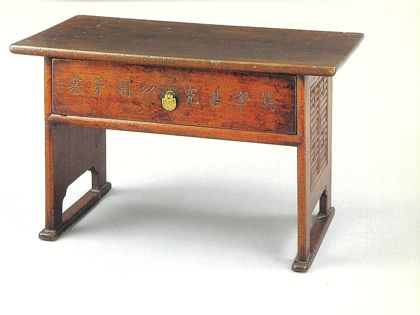
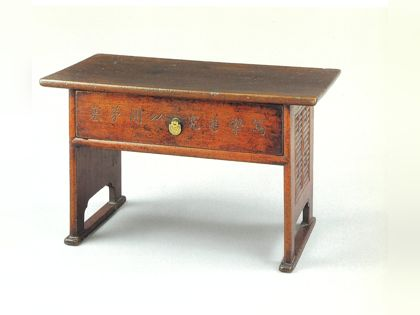
호암 도록 고화질 사진으로 갱신, 건수 검색 색인 정리
Claude-Session: https://claude.ai/code/session_01Lgfdd8YmfUHUM1mmv9spNH

diff --git a/hoam.html b/hoam.html
@@ -73,7 +73,7 @@ dialog::backdrop{background:rgba(20,18,15,.55)}
 <link rel="apple-touch-icon" href="icons/apple-touch-icon.png">
 <meta name="mobile-web-app-capable" content="yes"><meta name="apple-mobile-web-app-capable" content="yes">
 <meta name="apple-mobile-web-app-title" content="조선의 목가구">
-<script src="photozoom.js?v=20261113"></script>
+<script src="photozoom.js?v=20261113b"></script>
 <script src="common.js?v=18" defer></script>
 </head>
 <body>
@@ -101,9 +101,9 @@ dialog::backdrop{background:rgba(20,18,15,.55)}
   <div class="d-foot"><button id="d-prev">← 이전</button><span id="d-pos" style="font-size:13px;color:var(--muted)"></span><span><button id="d-next">다음 →</button> <button id="d-close">닫기</button></span></div>
 </dialog>
 <script type="application/json" id="ds-items">[{"portal": "서안", "id": "H01", "name": "서안", "hanja": "書案", "kind": "서안·경상", "type": "", "size_raw": "64×29.6×26.5", "era": "19세기", "owner": "개인 · 조선목가구대전(호암미술관 2002)", "page": ""}, {"portal": "서안", "id": "H02", "name": "서안", "hanja": "書案", "kind": "서안·경상", "type": "", "size_raw": "65×26.8×29", "era": "19세기", "owner": "호암미술관 · 조선목가구대전(호암미술관 2002)", "page": ""}, {"portal": "서안", "id": "H03", "name": "서안", "hanja": "書案", "kind": "서안·경상", "type": "", "size_raw": "64×29.6×28", "era": "19세기", "owner": "호암미술관 · 조선목가구대전(호암미술관 2002)", "page": ""}, {"portal": "서안", "id": "H04", "name": "서안", "hanja": "書案", "kind": "서안·경상", "type": "", "size_raw": "48×26×27.5", "era": "19세기", "owner": "호암미술관 · 조선목가구대전(호암미술관 2002)", "page": ""}, {"portal": "서안", "id": "H05", "name": "서안", "hanja": "書案", "kind": "서안·경상", "type": "", "size_raw": "57.5×27.8×25.7", "era": "19세기", "owner": "호암미술관 · 조선목가구대전(호암미술관 2002)", "page": ""}, {"portal": "서안", "id": "H06", "name": "서안", "hanja": "書案", "kind": "서안·경상", "type": "", "size_raw": "65.6×28.6×28.6", "era": "19세기", "owner": "이희숙 · 조선목가구대전(호암미술관 2002)", "page": ""}, {"portal": "서안", "id": "H07", "name": "서안", "hanja": "書案", "kind": "서안·경상", "type": "", "size_raw": "62×26×27", "era": "19세기", "owner": "호암미술관 · 조선목가구대전(호암미술관 2002)", "page": ""}, {"portal": "서안", "id": "H08", "name": "서안", "hanja": "書案", "kind": "서안·경상", "type": "", "size_raw": "73.5×33×29", "era": "19세기", "owner": "호암미술관 · 조선목가구대전(호암미술관 2002)", "page": ""}, {"portal": "서안", "id": "H09", "name": "서안", "hanja": "書案", "kind": "서안·경상", "type": "", "size_raw": "59×32.7×31.2", "era": "19세기", "owner": "개인 · 조선목가구대전(호암미술관 2002)", "page": ""}, {"portal": "서안", "id": "H10", "name": "경상", "hanja": "經床", "kind": "서안·경상", "type": "", "size_raw": "76.3×32×34.7", "era": "19세기", "owner": "국립중앙박물관 · 조선목가구대전(호암미술관 2002)", "page": ""}, {"portal": "서안", "id": "H11", "name": "경상", "hanja": "經床", "kind": "서안·경상", "type": "", "size_raw": "65.3×30×31", "era": "19세기", "owner": "호암미술관 · 조선목가구대전(호암미술관 2002)", "page": ""}, {"portal": "서안", "id": "H12", "name": "경상", "hanja": "經床", "kind": "서안·경상", "type": "", "size_raw": "62×27×34.5", "era": "18세기", "owner": "호암미술관 · 조선목가구대전(호암미술관 2002)", "page": ""}, {"portal": "", "id": "H13", "name": "연상", "hanja": "硯床", "kind": "연상", "type": "", "size_raw": "35.8×22.8×29", "era": "19세기", "owner": "호암미술관 · 조선목가구대전(호암미술관 2002)", "page": ""}, {"portal": "", "id": "H14", "name": "연상", "hanja": "硯床", "kind": "연상", "type": "", "size_raw": "33.3×20.2×26.5", "era": "19세기", "owner": "국립중앙박물관 · 조선목가구대전(호암미술관 2002)", "page": ""}, {"portal": "", "id": "H15", "name": "연상", "hanja": "硯床", "kind": "연상", "type": "", "size_raw": "33×22×18.5", "era": "19세기", "owner": "서울대학교박물관 · 조선목가구대전(호암미술관 2002)", "page": ""}, {"portal": "", "id": "H16", "name": "연상", "hanja": "硯床", "kind": "연상", "type": "", "size_raw": "19×32×20.5", "era": "19세기", "owner": "서울대학교박물관 · 조선목가구대전(호암미술관 2002)", "page": ""}, {"portal": "", "id": "H17", "name": "죽장연상", "hanja": "竹張硯床", "kind": "연상", "type": "", "size_raw": "45.8×28.3×29.3", "era": "19세기", "owner": "호암미술관 · 조선목가구대전(호암미술관 2002)", "page": ""}, {"portal": "", "id": "H18", "name": "죽장연상", "hanja": "竹張硯床", "kind": "연상", "type": "", "size_raw": "19.3×32.6×25.9", "era": "19세기", "owner": "정민자 · 조선목가구대전(호암미술관 2002)", "page": ""}, {"portal": "", "id": "H19", "name": "연상", "hanja": "硯床", "kind": "연상", "type": "", "size_raw": "40.4×29.8×26", "era": "19세기", "owner": "국립중앙박물관 · 조선목가구대전(호암미술관 2002)", "page": ""}, {"portal": "", "id": "H20", "name": "문갑", "hanja": "文匣", "kind": "문갑", "type": "", "size_raw": "108×21.2×28.4", "era": "19세기", "owner": "국립중앙박물관(김종학 기증품) · 조선목가구대전(호암미술관 2002)", "page": ""}, {"portal": "", "id": "H21", "name": "문갑", "hanja": "文匣", "kind": "문갑", "type": "", "size_raw": "165×34.6×38.5", "era": "19세기", "owner": "호암미술관 · 조선목가구대전(호암미술관 2002)", "page": ""}, {"portal": "", "id": "H22", "name": "문갑", "hanja": "文匣", "kind": "문갑", "type": "", "size_raw": "83×20×53.5", "era": "19세기", "owner": "국립중앙박물관(김종학 기증품) · 조선목가구대전(호암미술관 2002)", "page": ""}, {"portal": "", "id": "H23", "name": "문갑", "hanja": "文匣", "kind": "문갑", "type": "", "size_raw": "58.6×24.5×30.4", "era": "19세기", "owner": "박옥경 · 조선목가구대전(호암미술관 2002)", "page": ""}, {"portal": "", "id": "H24", "name": "문갑", "hanja": "文匣", "kind": "문갑", "type": "", "size_raw": "53×10.5×19.3", "era": "19세기", "owner": "서울대학교박물관 · 조선목가구대전(호암미술관 2002)", "page": ""}, {"portal": "", "id": "H25", "name": "문갑", "hanja": "文匣", "kind": "문갑", "type": "", "size_raw": "46.5×21.5×30", "era": "19세기", "owner": "개인 · 조선목가구대전(호암미술관 2002)", "page": ""}, {"portal": "사방탁자", "id": "H26", "name": "사층사방탁자", "hanja": "四層四方卓子", "kind": "탁자·책장", "type": "", "size_raw": "41.5×34×162.3", "era": "19세기", "owner": "국립중앙박물관 · 조선목가구대전(호암미술관 2002)", "page": ""}, {"portal": "사방탁자", "id": "H27", "name": "사층사방탁자", "hanja": "四層四方卓子", "kind": "탁자·책장", "type": "", "size_raw": "47×33.8×168.5", "era": "19세기", "owner": "서울대학교박물관 · 조선목가구대전(호암미술관 2002)", "page": ""}, {"portal": "사방탁자", "id": "H28", "name": "삼층탁자", "hanja": "三層卓子", "kind": "탁자·책장", "type": "", "size_raw": "36.4×34×132.8", "era": "19세기", "owner": "국립중앙박물관 · 조선목가구대전(호암미술관 2002)", "page": ""}, {"portal": "사방탁자", "id": "H29", "name": "사층탁자", "hanja": "四層卓子", "kind": "탁자·책장", "type": "", "size_raw": "38.2×38.2×158.6", "era": "19세기", "owner": "개인 · 조선목가구대전(호암미술관 2002)", "page": ""}, {"portal": "사방탁자", "id": "H30", "name": "사층탁자", "hanja": "四層卓子", "kind": "탁자·책장", "type": "", "size_raw": "54.8×18×117.5", "era": "19세기", "owner": "이화여자대학교박물관 · 조선목가구대전(호암미술관 2002)", "page": ""}]</script>
-<script type="application/json" id="ds-photos">[{"id": "H01", "img": "thumbs/hoam/1.jpg?v=20261113"}, {"id": "H02", "img": "thumbs/hoam/2.jpg?v=20261113"}, {"id": "H03", "img": "thumbs/hoam/3.jpg?v=20261113"}, {"id": "H04", "img": "thumbs/hoam/4.jpg?v=20261113"}, {"id": "H05", "img": "thumbs/hoam/5.jpg?v=20261113"}, {"id": "H06", "img": "thumbs/hoam/6.jpg?v=20261113"}, {"id": "H07", "img": "thumbs/hoam/7.jpg?v=20261113"}, {"id": "H08", "img": "thumbs/hoam/8.jpg?v=20261113"}, {"id": "H09", "img": "thumbs/hoam/9.jpg?v=20261113"}, {"id": "H10", "img": "thumbs/hoam/10.jpg?v=20261113"}, {"id": "H11", "img": "thumbs/hoam/11.jpg?v=20261113"}, {"id": "H12", "img": "thumbs/hoam/12.jpg?v=20261113"}, {"id": "H13", "img": "thumbs/hoam/13.jpg?v=20261113"}, {"id": "H14", "img": "thumbs/hoam/14.jpg?v=20261113"}, {"id": "H15", "img": "thumbs/hoam/15.jpg?v=20261113"}, {"id": "H16", "img": "thumbs/hoam/16.jpg?v=20261113"}, {"id": "H17", "img": "thumbs/hoam/17.jpg?v=20261113"}, {"id": "H18", "img": "thumbs/hoam/18.jpg?v=20261113"}, {"id": "H19", "img": "thumbs/hoam/19.jpg?v=20261113"}, {"id": "H20", "img": "thumbs/hoam/20.jpg?v=20261113"}, {"id": "H21", "img": "thumbs/hoam/21.jpg?v=20261113"}, {"id": "H22", "img": "thumbs/hoam/22.jpg?v=20261113"}, {"id": "H23", "img": "thumbs/hoam/23.jpg?v=20261113"}, {"id": "H24", "img": "thumbs/hoam/24.jpg?v=20261113"}, {"id": "H25", "img": "thumbs/hoam/25.jpg?v=20261113"}, {"id": "H26", "img": "thumbs/hoam/26.jpg?v=20261113"}, {"id": "H27", "img": "thumbs/hoam/27.jpg?v=20261113"}, {"id": "H28", "img": "thumbs/hoam/28.jpg?v=20261113"}, {"id": "H29", "img": "thumbs/hoam/29.jpg?v=20261113"}, {"id": "H30", "img": "thumbs/hoam/30.jpg?v=20261113"}]</script>
+<script type="application/json" id="ds-photos">[{"id": "H01", "img": "thumbs/hoam/1.jpg?v=20261113b"}, {"id": "H02", "img": "thumbs/hoam/2.jpg?v=20261113b"}, {"id": "H03", "img": "thumbs/hoam/3.jpg?v=20261113b"}, {"id": "H04", "img": "thumbs/hoam/4.jpg?v=20261113b"}, {"id": "H05", "img": "thumbs/hoam/5.jpg?v=20261113b"}, {"id": "H06", "img": "thumbs/hoam/6.jpg?v=20261113b"}, {"id": "H07", "img": "thumbs/hoam/7.jpg?v=20261113b"}, {"id": "H08", "img": "thumbs/hoam/8.jpg?v=20261113b"}, {"id": "H09", "img": "thumbs/hoam/9.jpg?v=20261113b"}, {"id": "H10", "img": "thumbs/hoam/10.jpg?v=20261113b"}, {"id": "H11", "img": "thumbs/hoam/11.jpg?v=20261113b"}, {"id": "H12", "img": "thumbs/hoam/12.jpg?v=20261113b"}, {"id": "H13", "img": "thumbs/hoam/13.jpg?v=20261113b"}, {"id": "H14", "img": "thumbs/hoam/14.jpg?v=20261113b"}, {"id": "H15", "img": "thumbs/hoam/15.jpg?v=20261113b"}, {"id": "H16", "img": "thumbs/hoam/16.jpg?v=20261113b"}, {"id": "H17", "img": "thumbs/hoam/17.jpg?v=20261113b"}, {"id": "H18", "img": "thumbs/hoam/18.jpg?v=20261113b"}, {"id": "H19", "img": "thumbs/hoam/19.jpg?v=20261113b"}, {"id": "H20", "img": "thumbs/hoam/20.jpg?v=20261113b"}, {"id": "H21", "img": "thumbs/hoam/21.jpg?v=20261113b"}, {"id": "H22", "img": "thumbs/hoam/22.jpg?v=20261113b"}, {"id": "H23", "img": "thumbs/hoam/23.jpg?v=20261113b"}, {"id": "H24", "img": "thumbs/hoam/24.jpg?v=20261113b"}, {"id": "H25", "img": "thumbs/hoam/25.jpg?v=20261113b"}, {"id": "H26", "img": "thumbs/hoam/26.jpg?v=20261113b"}, {"id": "H27", "img": "thumbs/hoam/27.jpg?v=20261113b"}, {"id": "H28", "img": "thumbs/hoam/28.jpg?v=20261113b"}, {"id": "H29", "img": "thumbs/hoam/29.jpg?v=20261113b"}, {"id": "H30", "img": "thumbs/hoam/30.jpg?v=20261113b"}]</script>
 <script>
-const ITEMS = [{"id": "H01", "kind": "서안·경상", "name": "서안", "hanja": "書案", "cat": "Writing Desk", "era": "19세기", "size": "64×29.6×26.5", "owner": "개인", "memo": "", "no": 1, "pics": [{"src": "https://jungmono.github.io/mokgagu-photos/photos/hoam/H01.jpg?v=20261113", "w": 1314, "h": 986}]}, {"id": "H02", "kind": "서안·경상", "name": "서안", "hanja": "書案", "cat": "Writing Desk", "era": "19세기", "size": "65×26.8×29", "owner": "호암미술관", "memo": "", "no": 2, "pics": [{"src": "https://jungmono.github.io/mokgagu-photos/photos/hoam/H02.jpg?v=20261113", "w": 1519, "h": 1139}]}, {"id": "H03", "kind": "서안·경상", "name": "서안", "hanja": "書案", "cat": "Writing Desk", "era": "19세기", "size": "64×29.6×28", "owner": "호암미술관", "memo": "", "no": 3, "pics": [{"src": "https://jungmono.github.io/mokgagu-photos/photos/hoam/H03.jpg?v=20261113", "w": 1663, "h": 1247}]}, {"id": "H04", "kind": "서안·경상", "name": "서안", "hanja": "書案", "cat": "Writing Desk", "era": "19세기", "size": "48×26×27.5", "owner": "호암미술관", "memo": "", "no": 4, "pics": [{"src": "https://jungmono.github.io/mokgagu-photos/photos/hoam/H04.jpg?v=20261113", "w": 1405, "h": 1054}]}, {"id": "H05", "kind": "서안·경상", "name": "서안", "hanja": "書案", "cat": "Writing Desk", "era": "19세기", "size": "57.5×27.8×25.7", "owner": "호암미술관", "memo": "", "no": 5, "pics": [{"src": "https://jungmono.github.io/mokgagu-photos/photos/hoam/H05.jpg?v=20261113", "w": 1438, "h": 1078}]}, {"id": "H06", "kind": "서안·경상", "name": "서안", "hanja": "書案", "cat": "Writing Desk", "era": "19세기", "size": "65.6×28.6×28.6", "owner": "이희숙", "memo": "스캔이 흑백(2진)으로 되어 사진이 거칩니다. 다시 스캔하면 바꿉니다.", "no": 6, "pics": [{"src": "https://jungmono.github.io/mokgagu-photos/photos/hoam/H06.jpg?v=20261113", "w": 1195, "h": 896}]}, {"id": "H07", "kind": "서안·경상", "name": "서안", "hanja": "書案", "cat": "Writing Desk", "era": "19세기", "size": "62×26×27", "owner": "호암미술관", "memo": "", "no": 7, "pics": [{"src": "https://jungmono.github.io/mokgagu-photos/photos/hoam/H07.jpg?v=20261113", "w": 1368, "h": 1026}]}, {"id": "H08", "kind": "서안·경상", "name": "서안", "hanja": "書案", "cat": "Writing Desk", "era": "19세기", "size": "73.5×33×29", "owner": "호암미술관", "memo": "", "no": 8, "pics": [{"src": "https://jungmono.github.io/mokgagu-photos/photos/hoam/H08.jpg?v=20261113", "w": 1525, "h": 1144}]}, {"id": "H09", "kind": "서안·경상", "name": "서안", "hanja": "書案", "cat": "Writing Desk", "era": "19세기", "size": "59×32.7×31.2", "owner": "개인", "memo": "도록 9-1·9-2, 같은 기물을 두 방향에서 찍은 사진 2장.", "no": 9, "pics": [{"src": "https://jungmono.github.io/mokgagu-photos/photos/hoam/H09.jpg?v=20261113", "w": 1073, "h": 805}, {"src": "https://jungmono.github.io/mokgagu-photos/photos/hoam/H09b.jpg?v=20261113", "w": 935, "h": 701}]}, {"id": "H10", "kind": "서안·경상", "name": "경상", "hanja": "經床", "cat": "Writing Desk", "era": "19세기", "size": "76.3×32×34.7", "owner": "국립중앙박물관", "memo": "", "no": 10, "pics": [{"src": "https://jungmono.github.io/mokgagu-photos/photos/hoam/H10.jpg?v=20261113", "w": 1348, "h": 1011}]}, {"id": "H11", "kind": "서안·경상", "name": "경상", "hanja": "經床", "cat": "Writing Desk", "era": "19세기", "size": "65.3×30×31", "owner": "호암미술관", "memo": "", "no": 11, "pics": [{"src": "https://jungmono.github.io/mokgagu-photos/photos/hoam/H11.jpg?v=20261113", "w": 1459, "h": 1094}]}, {"id": "H12", "kind": "서안·경상", "name": "경상", "hanja": "經床", "cat": "Writing Desk", "era": "18세기", "size": "62×27×34.5", "owner": "호암미술관", "memo": "", "no": 12, "pics": [{"src": "https://jungmono.github.io/mokgagu-photos/photos/hoam/H12.jpg?v=20261113", "w": 1462, "h": 1096}]}, {"id": "H13", "kind": "연상", "name": "연상", "hanja": "硯床", "cat": "Inkstone Table", "era": "19세기", "size": "35.8×22.8×29", "owner": "호암미술관", "memo": "", "no": 13, "pics": [{"src": "https://jungmono.github.io/mokgagu-photos/photos/hoam/H13.jpg?v=20261113", "w": 1039, "h": 779}]}, {"id": "H14", "kind": "연상", "name": "연상", "hanja": "硯床", "cat": "Inkstone Table", "era": "19세기", "size": "33.3×20.2×26.5", "owner": "국립중앙박물관", "memo": "", "no": 14, "pics": [{"src": "https://jungmono.github.io/mokgagu-photos/photos/hoam/H14.jpg?v=20261113", "w": 1327, "h": 995}]}, {"id": "H15", "kind": "연상", "name": "연상", "hanja": "硯床", "cat": "Inkstone Table", "era": "19세기", "size": "33×22×18.5", "owner": "서울대학교박물관", "memo": "", "no": 15, "pics": [{"src": "https://jungmono.github.io/mokgagu-photos/photos/hoam/H15.jpg?v=20261113", "w": 1425, "h": 1069}]}, {"id": "H16", "kind": "연상", "name": "연상", "hanja": "硯床", "cat": "Inkstone Table", "era": "19세기", "size": "19×32×20.5", "owner": "서울대학교박물관", "memo": "도록 표기 순서 그대로(幅 19×32).", "no": 16, "pics": [{"src": "https://jungmono.github.io/mokgagu-photos/photos/hoam/H16.jpg?v=20261113", "w": 1102, "h": 826}]}, {"id": "H17", "kind": "연상", "name": "죽장연상", "hanja": "竹張硯床", "cat": "Bamboo Plated Inkstone Table", "era": "19세기", "size": "45.8×28.3×29.3", "owner": "호암미술관", "memo": "", "no": 17, "pics": [{"src": "https://jungmono.github.io/mokgagu-photos/photos/hoam/H17.jpg?v=20261113", "w": 1435, "h": 1076}]}, {"id": "H18", "kind": "연상", "name": "죽장연상", "hanja": "竹張硯床", "cat": "Bamboo Plated Inkstone Table", "era": "19세기", "size": "19.3×32.6×25.9", "owner": "정민자", "memo": "도록 표기 순서 그대로(幅 19.3×32.6).", "no": 18, "pics": [{"src": "https://jungmono.github.io/mokgagu-photos/photos/hoam/H18.jpg?v=20261113", "w": 1297, "h": 973}]}, {"id": "H19", "kind": "연상", "name": "연상", "hanja": "硯床", "cat": "Inkstone Table", "era": "19세기", "size": "40.4×29.8×26", "owner": "국립중앙박물관", "memo": "", "no": 19, "pics": [{"src": "https://jungmono.github.io/mokgagu-photos/photos/hoam/H19.jpg?v=20261113", "w": 1417, "h": 1063}]}, {"id": "H20", "kind": "문갑", "name": "문갑", "hanja": "文匣", "cat": "Document Chest", "era": "19세기", "size": "108×21.2×28.4", "owner": "국립중앙박물관(김종학 기증품)", "memo": "도록 펼침면(36~37쪽)에 걸친 사진을 이어 붙였습니다.", "no": 20, "pics": [{"src": "https://jungmono.github.io/mokgagu-photos/photos/hoam/H20.jpg?v=20261113", "w": 2239, "h": 1679}]}, {"id": "H21", "kind": "문갑", "name": "문갑", "hanja": "文匣", "cat": "Document Chest", "era": "19세기", "size": "165×34.6×38.5", "owner": "호암미술관", "memo": "도록 펼침면(38~39쪽)에 걸친 사진을 이어 붙였습니다.", "no": 21, "pics": [{"src": "https://jungmono.github.io/mokgagu-photos/photos/hoam/H21.jpg?v=20261113", "w": 2230, "h": 1672}]}, {"id": "H22", "kind": "문갑", "name": "문갑", "hanja": "文匣", "cat": "Document Chest", "era": "19세기", "size": "83×20×53.5", "owner": "국립중앙박물관(김종학 기증품)", "memo": "", "no": 22, "pics": [{"src": "https://jungmono.github.io/mokgagu-photos/photos/hoam/H22.jpg?v=20261113", "w": 1460, "h": 1095}]}, {"id": "H23", "kind": "문갑", "name": "문갑", "hanja": "文匣", "cat": "Document Chest", "era": "19세기", "size": "58.6×24.5×30.4", "owner": "박옥경", "memo": "", "no": 23, "pics": [{"src": "https://jungmono.github.io/mokgagu-photos/photos/hoam/H23.jpg?v=20261113", "w": 1365, "h": 1024}]}, {"id": "H24", "kind": "문갑", "name": "문갑", "hanja": "文匣", "cat": "Document Chest", "era": "19세기", "size": "53×10.5×19.3", "owner": "서울대학교박물관", "memo": "", "no": 24, "pics": [{"src": "https://jungmono.github.io/mokgagu-photos/photos/hoam/H24.jpg?v=20261113", "w": 1492, "h": 1119}]}, {"id": "H25", "kind": "문갑", "name": "문갑", "hanja": "文匣", "cat": "Document Chest", "era": "19세기", "size": "46.5×21.5×30", "owner": "개인", "memo": "", "no": 25, "pics": [{"src": "https://jungmono.github.io/mokgagu-photos/photos/hoam/H25.jpg?v=20261113", "w": 1346, "h": 1010}]}, {"id": "H26", "kind": "탁자·책장", "name": "사층사방탁자", "hanja": "四層四方卓子", "cat": "Book Shelf", "era": "19세기", "size": "41.5×34×162.3", "owner": "국립중앙박물관", "memo": "", "no": 26, "pics": [{"src": "https://jungmono.github.io/mokgagu-photos/photos/hoam/H26.jpg?v=20261113", "w": 1403, "h": 1871}]}, {"id": "H27", "kind": "탁자·책장", "name": "사층사방탁자", "hanja": "四層四方卓子", "cat": "Book Shelf", "era": "19세기", "size": "47×33.8×168.5", "owner": "서울대학교박물관", "memo": "", "no": 27, "pics": [{"src": "https://jungmono.github.io/mokgagu-photos/photos/hoam/H27.jpg?v=20261113", "w": 1403, "h": 1871}]}, {"id": "H28", "kind": "탁자·책장", "name": "삼층탁자", "hanja": "三層卓子", "cat": "Book Shelf", "era": "19세기", "size": "36.4×34×132.8", "owner": "국립중앙박물관", "memo": "", "no": 28, "pics": [{"src": "https://jungmono.github.io/mokgagu-photos/photos/hoam/H28.jpg?v=20261113", "w": 1169, "h": 1559}]}, {"id": "H29", "kind": "탁자·책장", "name": "사층탁자", "hanja": "四層卓子", "cat": "Book Shelf", "era": "19세기", "size": "38.2×38.2×158.6", "owner": "개인", "memo": "", "no": 29, "pics": [{"src": "https://jungmono.github.io/mokgagu-photos/photos/hoam/H29.jpg?v=20261113", "w": 1364, "h": 1818}]}, {"id": "H30", "kind": "탁자·책장", "name": "사층탁자", "hanja": "四層卓子", "cat": "Book Shelf", "era": "19세기", "size": "54.8×18×117.5", "owner": "이화여자대학교박물관", "memo": "", "no": 30, "pics": [{"src": "https://jungmono.github.io/mokgagu-photos/photos/hoam/H30.jpg?v=20261113", "w": 1242, "h": 1656}]}];
+const ITEMS = [{"id": "H01", "kind": "서안·경상", "name": "서안", "hanja": "書案", "cat": "Writing Desk", "era": "19세기", "size": "64×29.6×26.5", "owner": "개인", "memo": "", "no": 1, "pics": [{"src": "https://jungmono.github.io/mokgagu-photos/photos/hoam/H01.jpg?v=20261113b", "w": 2885, "h": 2164}]}, {"id": "H02", "kind": "서안·경상", "name": "서안", "hanja": "書案", "cat": "Writing Desk", "era": "19세기", "size": "65×26.8×29", "owner": "호암미술관", "memo": "", "no": 2, "pics": [{"src": "https://jungmono.github.io/mokgagu-photos/photos/hoam/H02.jpg?v=20261113b", "w": 3040, "h": 2280}]}, {"id": "H03", "kind": "서안·경상", "name": "서안", "hanja": "書案", "cat": "Writing Desk", "era": "19세기", "size": "64×29.6×28", "owner": "호암미술관", "memo": "", "no": 3, "pics": [{"src": "https://jungmono.github.io/mokgagu-photos/photos/hoam/H03.jpg?v=20261113b", "w": 3200, "h": 2400}]}, {"id": "H04", "kind": "서안·경상", "name": "서안", "hanja": "書案", "cat": "Writing Desk", "era": "19세기", "size": "48×26×27.5", "owner": "호암미술관", "memo": "", "no": 4, "pics": [{"src": "https://jungmono.github.io/mokgagu-photos/photos/hoam/H04.jpg?v=20261113b", "w": 3200, "h": 2400}]}, {"id": "H05", "kind": "서안·경상", "name": "서안", "hanja": "書案", "cat": "Writing Desk", "era": "19세기", "size": "57.5×27.8×25.7", "owner": "호암미술관", "memo": "", "no": 5, "pics": [{"src": "https://jungmono.github.io/mokgagu-photos/photos/hoam/H05.jpg?v=20261113b", "w": 2872, "h": 2154}]}, {"id": "H06", "kind": "서안·경상", "name": "서안", "hanja": "書案", "cat": "Writing Desk", "era": "19세기", "size": "65.6×28.6×28.6", "owner": "이희숙", "memo": "스캔이 흑백(2진)으로 되어 사진이 거칩니다. 다시 스캔하면 바꿉니다.", "no": 6, "pics": [{"src": "https://jungmono.github.io/mokgagu-photos/photos/hoam/H06.jpg?v=20261113b", "w": 2675, "h": 2006}]}, {"id": "H07", "kind": "서안·경상", "name": "서안", "hanja": "書案", "cat": "Writing Desk", "era": "19세기", "size": "62×26×27", "owner": "호암미술관", "memo": "", "no": 7, "pics": [{"src": "https://jungmono.github.io/mokgagu-photos/photos/hoam/H07.jpg?v=20261113b", "w": 2728, "h": 2046}]}, {"id": "H08", "kind": "서안·경상", "name": "서안", "hanja": "書案", "cat": "Writing Desk", "era": "19세기", "size": "73.5×33×29", "owner": "호암미술관", "memo": "", "no": 8, "pics": [{"src": "https://jungmono.github.io/mokgagu-photos/photos/hoam/H08.jpg?v=20261113b", "w": 3053, "h": 2290}]}, {"id": "H09", "kind": "서안·경상", "name": "서안", "hanja": "書案", "cat": "Writing Desk", "era": "19세기", "size": "59×32.7×31.2", "owner": "개인", "memo": "도록 9-1·9-2, 같은 기물을 두 방향에서 찍은 사진 2장.", "no": 9, "pics": [{"src": "https://jungmono.github.io/mokgagu-photos/photos/hoam/H09.jpg?v=20261113b", "w": 2160, "h": 1620}, {"src": "https://jungmono.github.io/mokgagu-photos/photos/hoam/H09b.jpg?v=20261113b", "w": 1864, "h": 1398}]}, {"id": "H10", "kind": "서안·경상", "name": "경상", "hanja": "經床", "cat": "Writing Desk", "era": "19세기", "size": "76.3×32×34.7", "owner": "국립중앙박물관", "memo": "", "no": 10, "pics": [{"src": "https://jungmono.github.io/mokgagu-photos/photos/hoam/H10.jpg?v=20261113b", "w": 2559, "h": 1919}]}, {"id": "H11", "kind": "서안·경상", "name": "경상", "hanja": "經床", "cat": "Writing Desk", "era": "19세기", "size": "65.3×30×31", "owner": "호암미술관", "memo": "", "no": 11, "pics": [{"src": "https://jungmono.github.io/mokgagu-photos/photos/hoam/H11.jpg?v=20261113b", "w": 2911, "h": 2183}]}, {"id": "H12", "kind": "서안·경상", "name": "경상", "hanja": "經床", "cat": "Writing Desk", "era": "18세기", "size": "62×27×34.5", "owner": "호암미술관", "memo": "", "no": 12, "pics": [{"src": "https://jungmono.github.io/mokgagu-photos/photos/hoam/H12.jpg?v=20261113b", "w": 2920, "h": 2190}]}, {"id": "H13", "kind": "연상", "name": "연상", "hanja": "硯床", "cat": "Inkstone Table", "era": "19세기", "size": "35.8×22.8×29", "owner": "호암미술관", "memo": "", "no": 13, "pics": [{"src": "https://jungmono.github.io/mokgagu-photos/photos/hoam/H13.jpg?v=20261113b", "w": 2075, "h": 1556}]}, {"id": "H14", "kind": "연상", "name": "연상", "hanja": "硯床", "cat": "Inkstone Table", "era": "19세기", "size": "33.3×20.2×26.5", "owner": "국립중앙박물관", "memo": "", "no": 14, "pics": [{"src": "https://jungmono.github.io/mokgagu-photos/photos/hoam/H14.jpg?v=20261113b", "w": 2643, "h": 1982}]}, {"id": "H15", "kind": "연상", "name": "연상", "hanja": "硯床", "cat": "Inkstone Table", "era": "19세기", "size": "33×22×18.5", "owner": "서울대학교박물관", "memo": "", "no": 15, "pics": [{"src": "https://jungmono.github.io/mokgagu-photos/photos/hoam/H15.jpg?v=20261113b", "w": 2810, "h": 2108}]}, {"id": "H16", "kind": "연상", "name": "연상", "hanja": "硯床", "cat": "Inkstone Table", "era": "19세기", "size": "19×32×20.5", "owner": "서울대학교박물관", "memo": "도록 표기 순서 그대로(幅 19×32).", "no": 16, "pics": [{"src": "https://jungmono.github.io/mokgagu-photos/photos/hoam/H16.jpg?v=20261113b", "w": 2209, "h": 1657}]}, {"id": "H17", "kind": "연상", "name": "죽장연상", "hanja": "竹張硯床", "cat": "Bamboo Plated Inkstone Table", "era": "19세기", "size": "45.8×28.3×29.3", "owner": "호암미술관", "memo": "", "no": 17, "pics": [{"src": "https://jungmono.github.io/mokgagu-photos/photos/hoam/H17.jpg?v=20261113b", "w": 2939, "h": 2204}]}, {"id": "H18", "kind": "연상", "name": "죽장연상", "hanja": "竹張硯床", "cat": "Bamboo Plated Inkstone Table", "era": "19세기", "size": "19.3×32.6×25.9", "owner": "정민자", "memo": "도록 표기 순서 그대로(幅 19.3×32.6).", "no": 18, "pics": [{"src": "https://jungmono.github.io/mokgagu-photos/photos/hoam/H18.jpg?v=20261113b", "w": 3043, "h": 2282}]}, {"id": "H19", "kind": "연상", "name": "연상", "hanja": "硯床", "cat": "Inkstone Table", "era": "19세기", "size": "40.4×29.8×26", "owner": "국립중앙박물관", "memo": "", "no": 19, "pics": [{"src": "https://jungmono.github.io/mokgagu-photos/photos/hoam/H19.jpg?v=20261113b", "w": 2653, "h": 1990}]}, {"id": "H20", "kind": "문갑", "name": "문갑", "hanja": "文匣", "cat": "Document Chest", "era": "19세기", "size": "108×21.2×28.4", "owner": "국립중앙박물관(김종학 기증품)", "memo": "도록 펼침면(36~37쪽)에 걸친 사진을 이어 붙였습니다.", "no": 20, "pics": [{"src": "https://jungmono.github.io/mokgagu-photos/photos/hoam/H20.jpg?v=20261113b", "w": 3200, "h": 2400}]}, {"id": "H21", "kind": "문갑", "name": "문갑", "hanja": "文匣", "cat": "Document Chest", "era": "19세기", "size": "165×34.6×38.5", "owner": "호암미술관", "memo": "도록 펼침면(38~39쪽)에 걸친 사진을 이어 붙였습니다.", "no": 21, "pics": [{"src": "https://jungmono.github.io/mokgagu-photos/photos/hoam/H21.jpg?v=20261113b", "w": 3200, "h": 2400}]}, {"id": "H22", "kind": "문갑", "name": "문갑", "hanja": "文匣", "cat": "Document Chest", "era": "19세기", "size": "83×20×53.5", "owner": "국립중앙박물관(김종학 기증품)", "memo": "", "no": 22, "pics": [{"src": "https://jungmono.github.io/mokgagu-photos/photos/hoam/H22.jpg?v=20261113b", "w": 2732, "h": 2049}]}, {"id": "H23", "kind": "문갑", "name": "문갑", "hanja": "文匣", "cat": "Document Chest", "era": "19세기", "size": "58.6×24.5×30.4", "owner": "박옥경", "memo": "", "no": 23, "pics": [{"src": "https://jungmono.github.io/mokgagu-photos/photos/hoam/H23.jpg?v=20261113b", "w": 3034, "h": 2276}]}, {"id": "H24", "kind": "문갑", "name": "문갑", "hanja": "文匣", "cat": "Document Chest", "era": "19세기", "size": "53×10.5×19.3", "owner": "서울대학교박물관", "memo": "", "no": 24, "pics": [{"src": "https://jungmono.github.io/mokgagu-photos/photos/hoam/H24.jpg?v=20261113b", "w": 2803, "h": 2102}]}, {"id": "H25", "kind": "문갑", "name": "문갑", "hanja": "文匣", "cat": "Document Chest", "era": "19세기", "size": "46.5×21.5×30", "owner": "개인", "memo": "", "no": 25, "pics": [{"src": "https://jungmono.github.io/mokgagu-photos/photos/hoam/H25.jpg?v=20261113b", "w": 2756, "h": 2067}]}, {"id": "H26", "kind": "탁자·책장", "name": "사층사방탁자", "hanja": "四層四方卓子", "cat": "Book Shelf", "era": "19세기", "size": "41.5×34×162.3", "owner": "국립중앙박물관", "memo": "", "no": 26, "pics": [{"src": "https://jungmono.github.io/mokgagu-photos/photos/hoam/H26.jpg?v=20261113b", "w": 2400, "h": 3200}]}, {"id": "H27", "kind": "탁자·책장", "name": "사층사방탁자", "hanja": "四層四方卓子", "cat": "Book Shelf", "era": "19세기", "size": "47×33.8×168.5", "owner": "서울대학교박물관", "memo": "", "no": 27, "pics": [{"src": "https://jungmono.github.io/mokgagu-photos/photos/hoam/H27.jpg?v=20261113b", "w": 2400, "h": 3200}]}, {"id": "H28", "kind": "탁자·책장", "name": "삼층탁자", "hanja": "三層卓子", "cat": "Book Shelf", "era": "19세기", "size": "36.4×34×132.8", "owner": "국립중앙박물관", "memo": "", "no": 28, "pics": [{"src": "https://jungmono.github.io/mokgagu-photos/photos/hoam/H28.jpg?v=20261113b", "w": 2335, "h": 3113}]}, {"id": "H29", "kind": "탁자·책장", "name": "사층탁자", "hanja": "四層卓子", "cat": "Book Shelf", "era": "19세기", "size": "38.2×38.2×158.6", "owner": "개인", "memo": "", "no": 29, "pics": [{"src": "https://jungmono.github.io/mokgagu-photos/photos/hoam/H29.jpg?v=20261113b", "w": 2400, "h": 3200}]}, {"id": "H30", "kind": "탁자·책장", "name": "사층탁자", "hanja": "四層卓子", "cat": "Book Shelf", "era": "19세기", "size": "54.8×18×117.5", "owner": "이화여자대학교박물관", "memo": "", "no": 30, "pics": [{"src": "https://jungmono.github.io/mokgagu-photos/photos/hoam/H30.jpg?v=20261113b", "w": 2400, "h": 3200}]}];
 const THUMB = Object.fromEntries(JSON.parse(document.getElementById('ds-photos').textContent).map((p) => [p.id, p.img]));
 const GRPS = ["서안·경상", "연상", "문갑", "탁자·책장"];
 const ERAS = [];

diff --git a/tools/build_hoam.py b/tools/build_hoam.py
@@ -11,7 +11,7 @@ from PIL import Image
 ROOT = os.path.dirname(os.path.dirname(os.path.abspath(__file__))); os.chdir(ROOT)
 PDF = os.path.abspath(sys.argv[1]); COVER = sys.argv[2]; PHOTOS = os.path.abspath(sys.argv[3])
 HOST = 'https://jungmono.github.io/mokgagu-photos/photos/hoam/'
-VER = '20261113'
+VER = '20261113b'
 os.makedirs(PHOTOS, exist_ok=True); os.makedirs('thumbs/hoam', exist_ok=True)
 BOOK = '『조선목가구대전 — 나뭇결에 스민 지혜』 — 호암미술관, 2002 (사랑방 가구)'
 GRPS = ['서안·경상', '연상', '문갑', '탁자·책장']
@@ -63,25 +63,26 @@ def page(n):
     return cv2.cvtColor(np.array(im), cv2.COLOR_RGB2BGR)
 
 def find_boxes(img, minarea=120000):
-    H, W = img.shape[:2]
-    g = cv2.GaussianBlur(cv2.cvtColor(img, cv2.COLOR_BGR2GRAY).astype(np.float32), (0, 0), 3)
+    H, W = img.shape[:2]; S = W / 1654.0   # 200dpi 기준 배율(400dpi 스캔이면 2)
+    minarea = int(minarea * S * S); k = lambda v: max(1, int(round(v * S)))
+    g = cv2.GaussianBlur(cv2.cvtColor(img, cv2.COLOR_BGR2GRAY).astype(np.float32), (0, 0), 3 * S)
     m = (g < 251).astype(np.uint8)
     m[int(H * 0.885):, :] = 0; m[:int(H * 0.025), :] = 0          # 아래 캡션·위 쪽번호 제외
-    m = cv2.morphologyEx(m, cv2.MORPH_OPEN, np.ones((9, 9), np.uint8))
-    m = cv2.morphologyEx(m, cv2.MORPH_CLOSE, np.ones((41, 41), np.uint8))
+    m = cv2.morphologyEx(m, cv2.MORPH_OPEN, np.ones((k(9), k(9)), np.uint8))
+    m = cv2.morphologyEx(m, cv2.MORPH_CLOSE, np.ones((k(41), k(41)), np.uint8))
     nl, lab, st, _ = cv2.connectedComponentsWithStats(m)
     comps = sorted([(int(st[i, 4]), [int(v) for v in st[i, :4]]) for i in range(1, nl) if st[i, 4] > minarea], key=lambda c: -c[0])
     return [c[1] for c in comps]
 
 def soften(img, b, pad=70):
     """사진 바탕이 종이와 거의 같은 쪽은 사각형이 안 보여 물체만 잡힌다 → 그 변만 조금 넓힌다."""
-    H, W = img.shape[:2]; x, y, w, h = b; g = cv2.cvtColor(img, cv2.COLOR_BGR2GRAY)
+    H, W = img.shape[:2]; x, y, w, h = b; g = cv2.cvtColor(img, cv2.COLOR_BGR2GRAY); S = W / 1654.0; pad = int(pad * S); e1, e2 = int(2 * S), int(12 * S)
     def hard(strip_in, strip_out): return np.median(strip_in) < 244 and np.median(strip_out) >= 250
     x0, x1, y0, y1 = x, x + w, y, y + h
-    L = hard(g[y0 + h // 4:y1 - h // 4, x0 + 2:x0 + 12], g[y0 + h // 4:y1 - h // 4, max(x0 - 12, 0):max(x0 - 2, 1)]) if x0 > 12 else True
-    Rr = hard(g[y0 + h // 4:y1 - h // 4, x1 - 12:x1 - 2], g[y0 + h // 4:y1 - h // 4, min(x1 + 2, W - 1):min(x1 + 12, W)]) if x1 < W - 12 else True
-    T = hard(g[y0 + 2:y0 + 12, x0 + w // 4:x1 - w // 4], g[max(y0 - 12, 0):max(y0 - 2, 1), x0 + w // 4:x1 - w // 4]) if y0 > 12 else True
-    B = hard(g[y1 - 12:y1 - 2, x0 + w // 4:x1 - w // 4], g[min(y1 + 2, H - 1):min(y1 + 12, H), x0 + w // 4:x1 - w // 4]) if y1 < H - 12 else True
+    L = hard(g[y0 + h // 4:y1 - h // 4, x0 + e1:x0 + e2], g[y0 + h // 4:y1 - h // 4, max(x0 - e2, 0):max(x0 - e1, 1)]) if x0 > e2 else True
+    Rr = hard(g[y0 + h // 4:y1 - h // 4, x1 - e2:x1 - e1], g[y0 + h // 4:y1 - h // 4, min(x1 + e1, W - 1):min(x1 + e2, W)]) if x1 < W - e2 else True
+    T = hard(g[y0 + e1:y0 + e2, x0 + w // 4:x1 - w // 4], g[max(y0 - e2, 0):max(y0 - e1, 1), x0 + w // 4:x1 - w // 4]) if y0 > e2 else True
+    B = hard(g[y1 - e2:y1 - e1, x0 + w // 4:x1 - w // 4], g[min(y1 + e1, H - 1):min(y1 + e2, H), x0 + w // 4:x1 - w // 4]) if y1 < H - e2 else True
     if not L: x0 = max(0, x0 - pad)
     if not Rr: x1 = min(W, x1 + pad)
     if not T: y0 = max(int(H * 0.03), y0 - pad)
@@ -92,7 +93,7 @@ def pad_smooth(img, top, bottom, left, right):
     """늘린 부분은 가장자리 색을 늘린 뒤 크게 흐려 줄무늬 없이 바탕처럼 보이게 한다."""
     H, W = img.shape[:2]
     big = cv2.copyMakeBorder(img, top, bottom, left, right, cv2.BORDER_REPLICATE)
-    blur = cv2.GaussianBlur(big, (0, 0), 45)
+    blur = cv2.GaussianBlur(big, (0, 0), 45 * (img.shape[1] / 1654.0 if False else max(1.0, H / 1100.0)))
     out = blur.copy(); out[top:top + H, left:left + W] = img
     # 사진과 늘린 바탕의 경계가 튀지 않도록 안쪽 6px 를 섞는다
     return out
@@ -117,7 +118,7 @@ def trim_gutter(img, side):
     for x in rng:
         if col[x] >= 247: n += 1
         else: break
-    n += 3
+    n += int(3 * W / 800)
     return img[:, :W - n] if side == 'right' else img[:, n:]
 
 def crops(no):
@@ -142,7 +143,7 @@ items, ds, photos = [], [], []
 for n, (no, name, hanja, en, era, size, kind, owner, memo) in enumerate(R, 1):
     id_ = 'H%02d' % no; pics = []
     for k, c in enumerate(crops(no)):
-        c.thumbnail((2800, 2800)); w, h = c.size; fn = id_ + ('' if k == 0 else chr(97 + k)) + '.jpg'
+        c.thumbnail((3200, 3200)); w, h = c.size; fn = id_ + ('' if k == 0 else chr(97 + k)) + '.jpg'
         c.save(os.path.join(PHOTOS, fn), quality=90, optimize=True)
         pics.append({'src': HOST + fn + '?v=' + VER, 'w': w, 'h': h})
         if k == 0:
